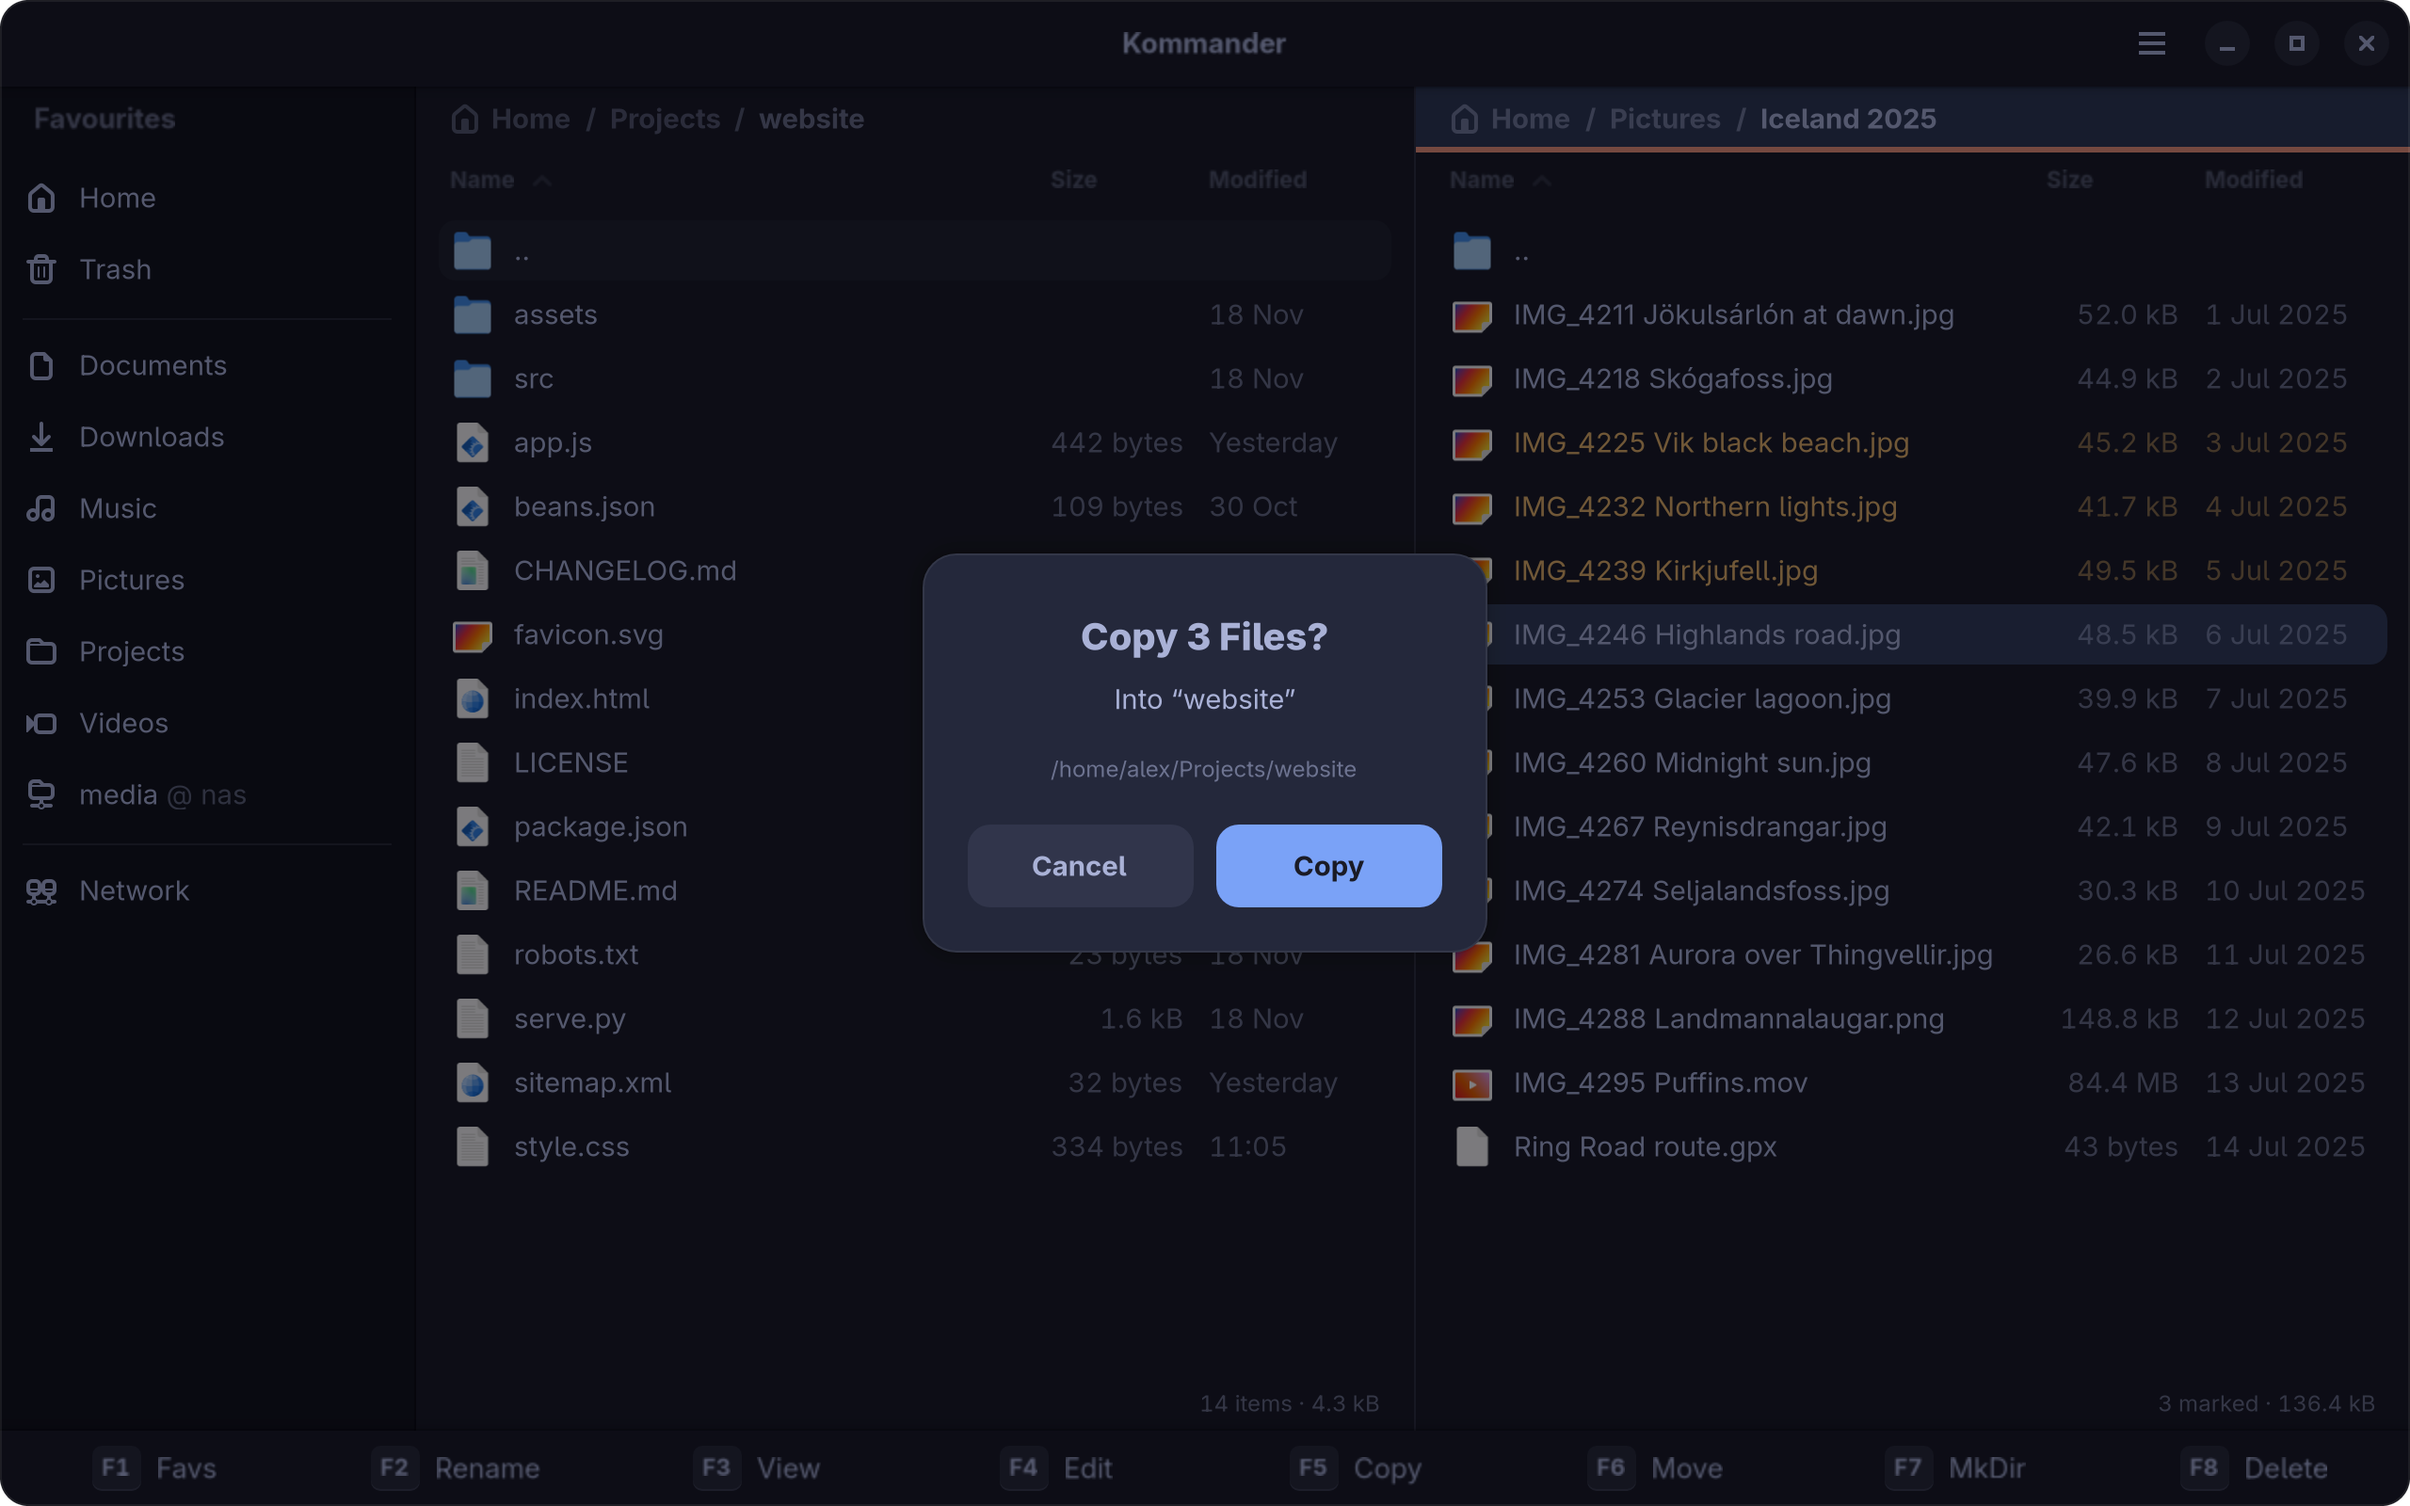
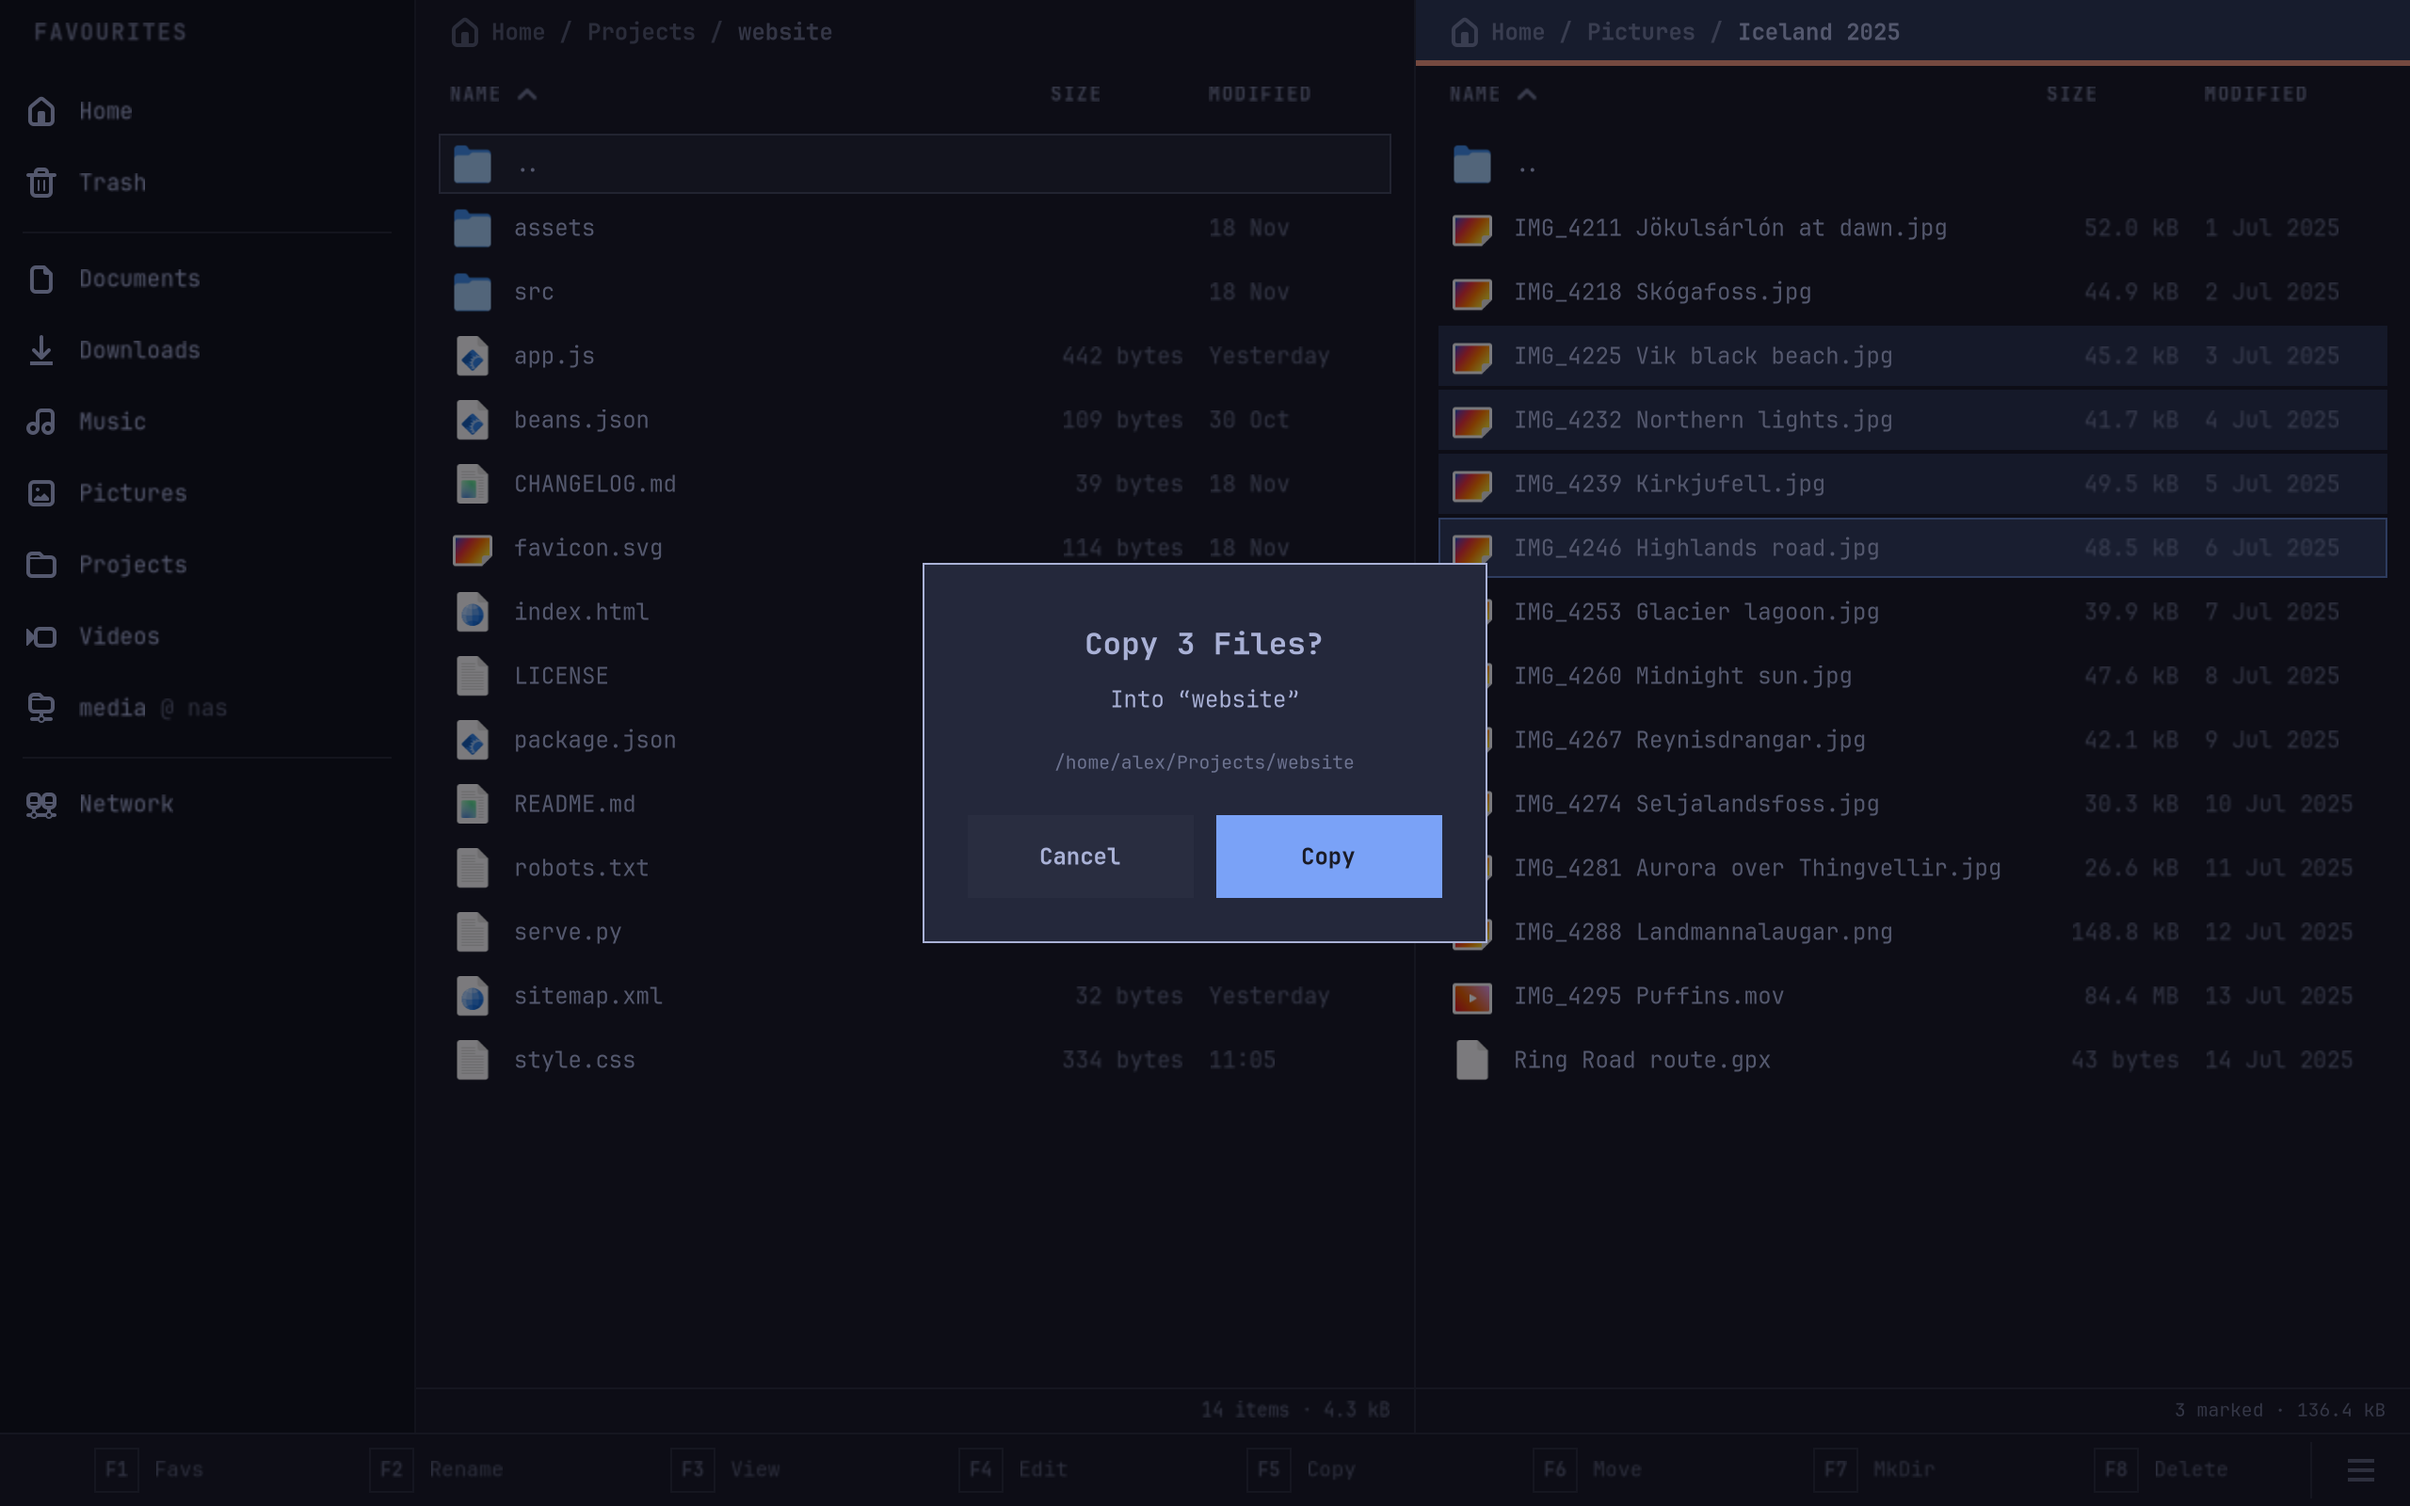
Screenshots: the Omarchy look as the main picture, GNOME beside it

diff --git a/README.md b/README.md
@@ -7,11 +7,11 @@ how GNOME Files looks. Copy with F5, move with F6, preview with F3 in the
 other panel. It talks to your NAS, follows your Omarchy theme the moment
 you switch it, and otherwise stays out of your way.
 
-![Kommander with the Omarchy theme's colours](docs/screenshots/main-omarchy.png)
+![The Omarchy look: square and monospace, like Omarchy's own apps](docs/screenshots/main-omarchy.png)
 
 | | |
 | --- | --- |
-| ![The plain GNOME look, dark](docs/screenshots/main-gnome.png) | ![The plain GNOME look, light](docs/screenshots/main-gnome-light.png) |
+| ![The GNOME look, dark](docs/screenshots/main-gnome.png) | ![The GNOME look, light](docs/screenshots/main-gnome-light.png) |
 | ![Image preview](docs/screenshots/preview-image.png) | ![Code preview](docs/screenshots/preview-code.png) |
 | ![Right-click menu](docs/screenshots/context-menu.png) | ![Copy to the other panel](docs/screenshots/copy.png) |
 | ![Connect to Server](docs/screenshots/network.png) | |
